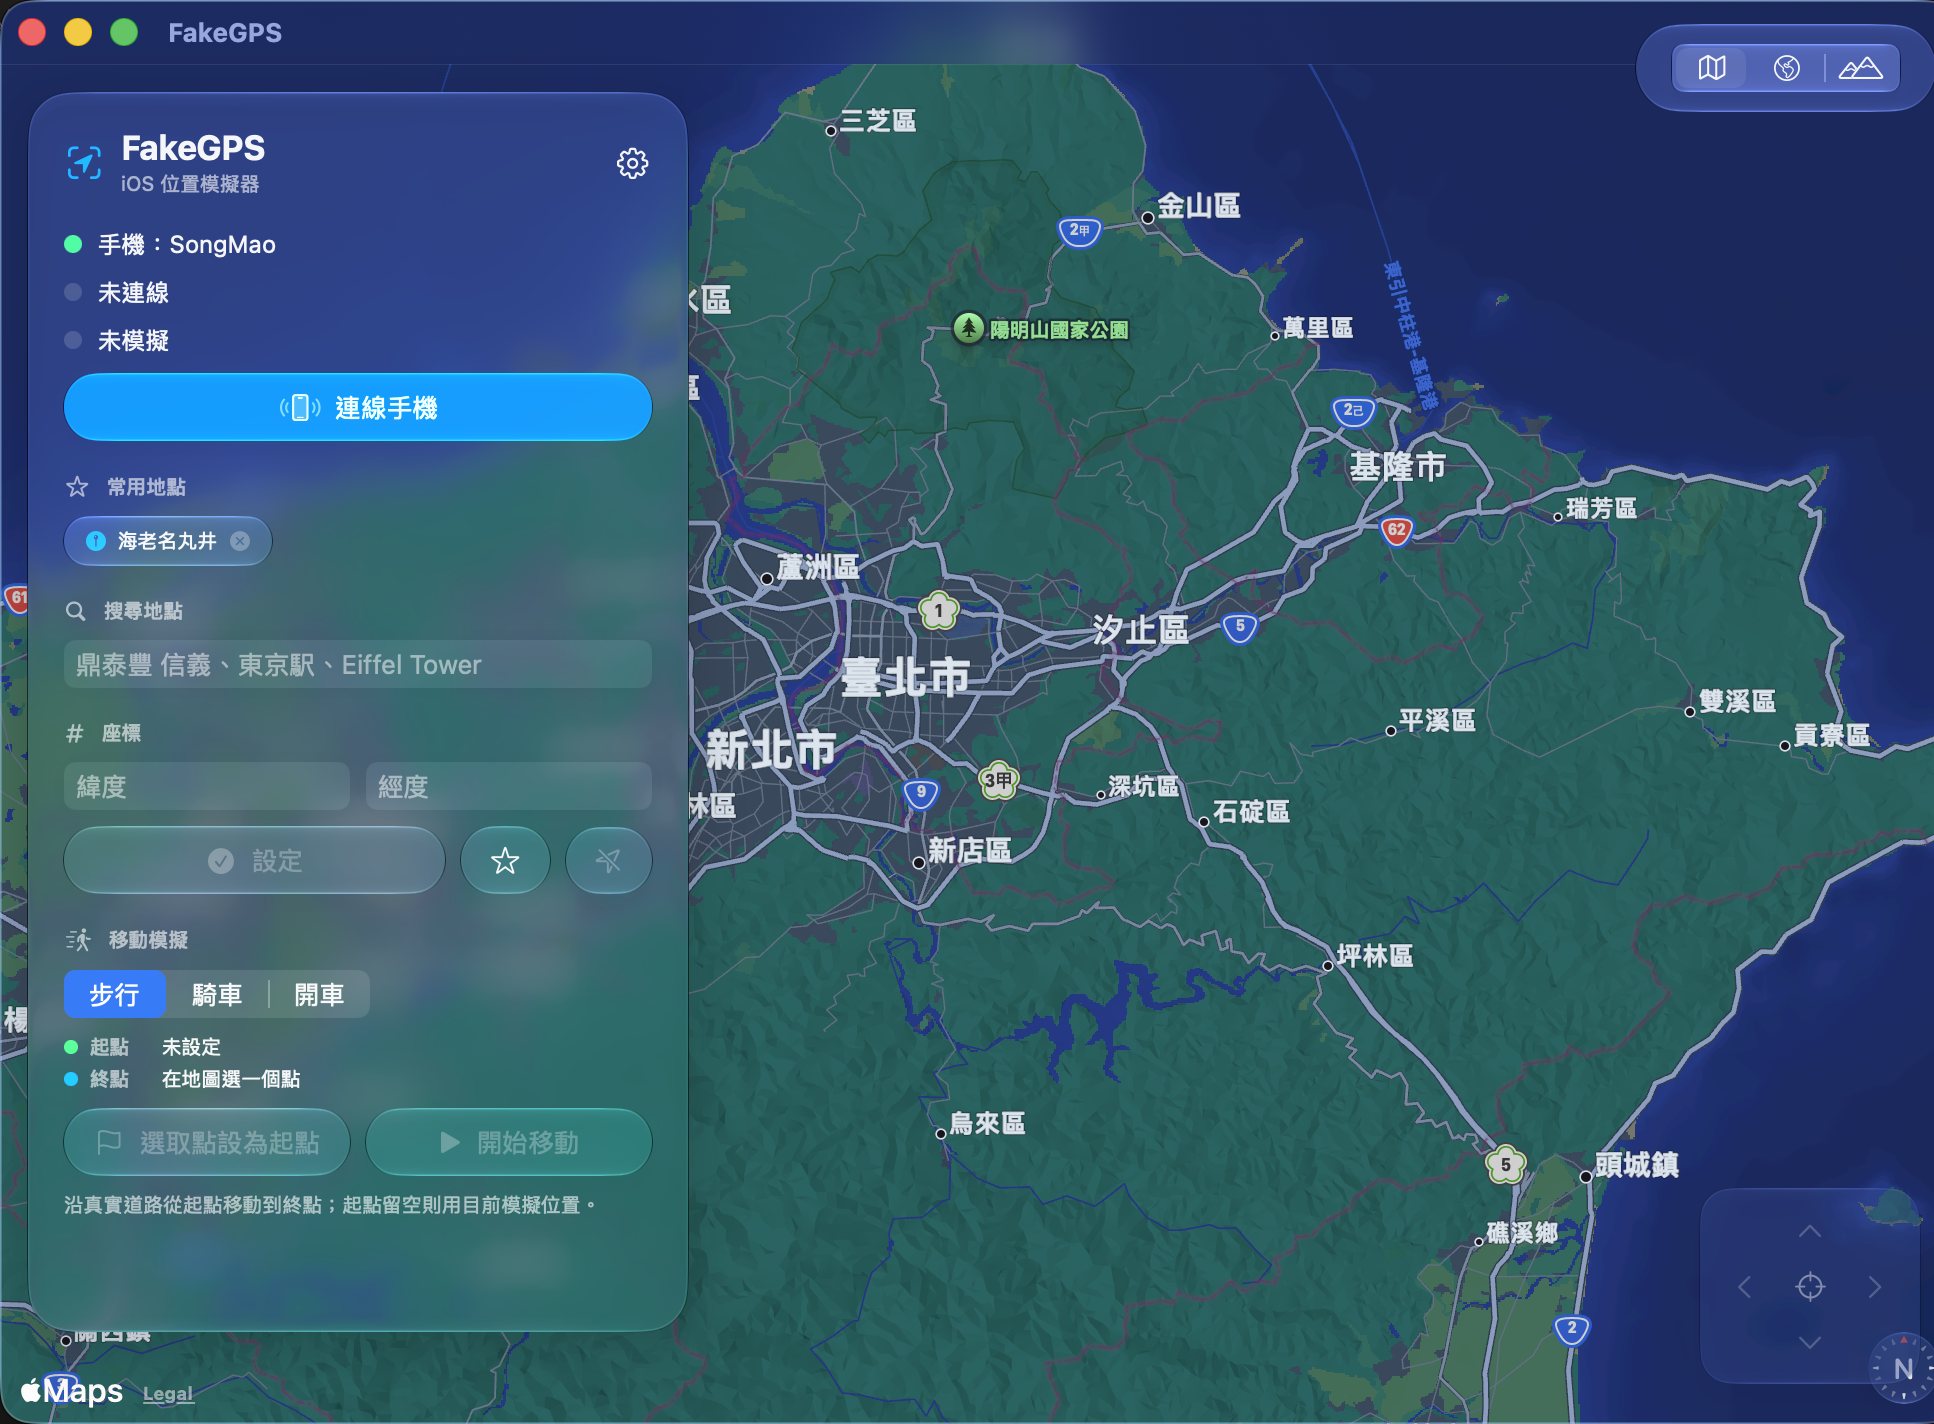
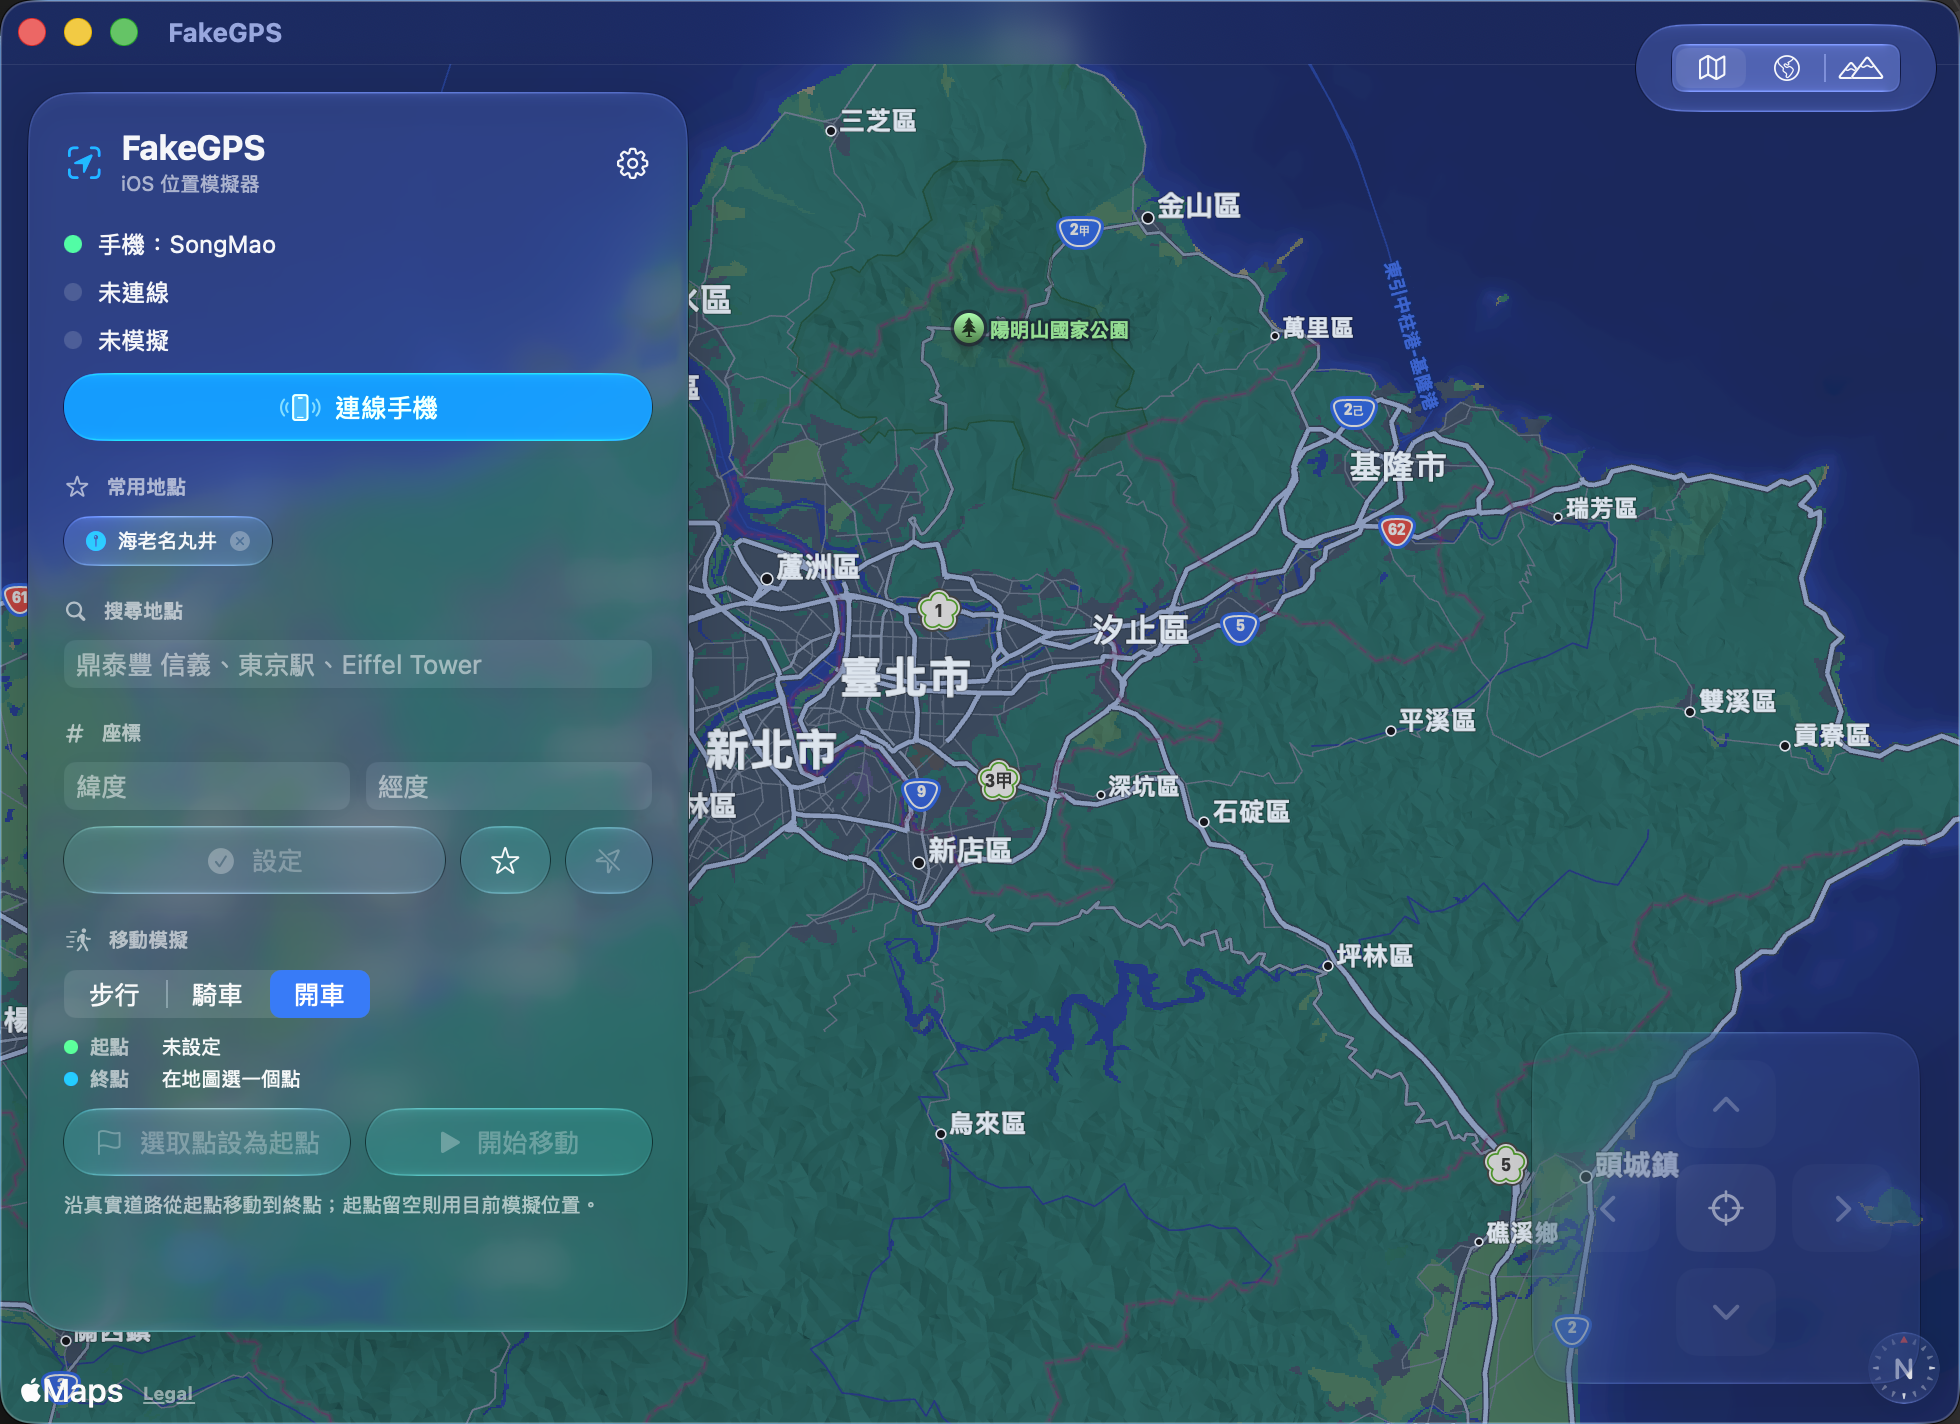
fix: 放大微調搖桿按鈕、整塊攔截點擊避免穿透到地圖
- 方向鍵點擊區 26×22 → 50×44，加可見背景
- 搖桿與主面板加 contentShape，點擊不再穿透到地圖誤設點

diff --git a/FakeGPS.swift b/FakeGPS.swift
@@ -321,6 +321,7 @@ struct ContentView: View {
         }
         .scrollIndicators(.never)
         .glassPanel(RoundedRectangle(cornerRadius: 22))
+        .contentShape(RoundedRectangle(cornerRadius: 22))   // 面板攔截點擊，避免穿透到地圖設點
     }
 
     var statusBlock: some View {
@@ -419,15 +420,24 @@ struct ContentView: View {
         }
     }
     var nudgePad: some View {
-        VStack(spacing: 6) {
+        VStack(spacing: 8) {
             nudgeBtn("chevron.up", 1, 0)
-            HStack(spacing: 6) { nudgeBtn("chevron.left", 0, -1); nudgeBtn("scope", 0, 0); nudgeBtn("chevron.right", 0, 1) }
+            HStack(spacing: 8) { nudgeBtn("chevron.left", 0, -1); nudgeBtn("scope", 0, 0); nudgeBtn("chevron.right", 0, 1) }
             nudgeBtn("chevron.down", -1, 0)
-        }.padding(10).glassPanel(RoundedRectangle(cornerRadius: 16)).opacity(picked == nil ? 0.45 : 1)
+        }
+        .padding(14)
+        .glassPanel(RoundedRectangle(cornerRadius: 20))
+        .contentShape(RoundedRectangle(cornerRadius: 20))   // 整塊攔截點擊，不穿透到地圖
+        .opacity(picked == nil ? 0.5 : 1)
     }
     func nudgeBtn(_ icon: String, _ dy: Int, _ dx: Int) -> some View {
-        Button { nudge(Double(dy), Double(dx)) } label: { Image(systemName: icon).frame(width: 26, height: 22) }
-            .buttonStyle(.plain).disabled(picked == nil && icon != "scope")
+        Button { nudge(Double(dy), Double(dx)) } label: {
+            Image(systemName: icon).font(.title3.weight(.semibold))
+                .frame(width: 50, height: 44)
+                .background(.white.opacity(0.10), in: RoundedRectangle(cornerRadius: 11))
+                .contentShape(RoundedRectangle(cornerRadius: 11))
+        }
+        .buttonStyle(.plain).disabled(picked == nil && icon != "scope")
     }
     var mapView: some View {
         MapReader { proxy in
